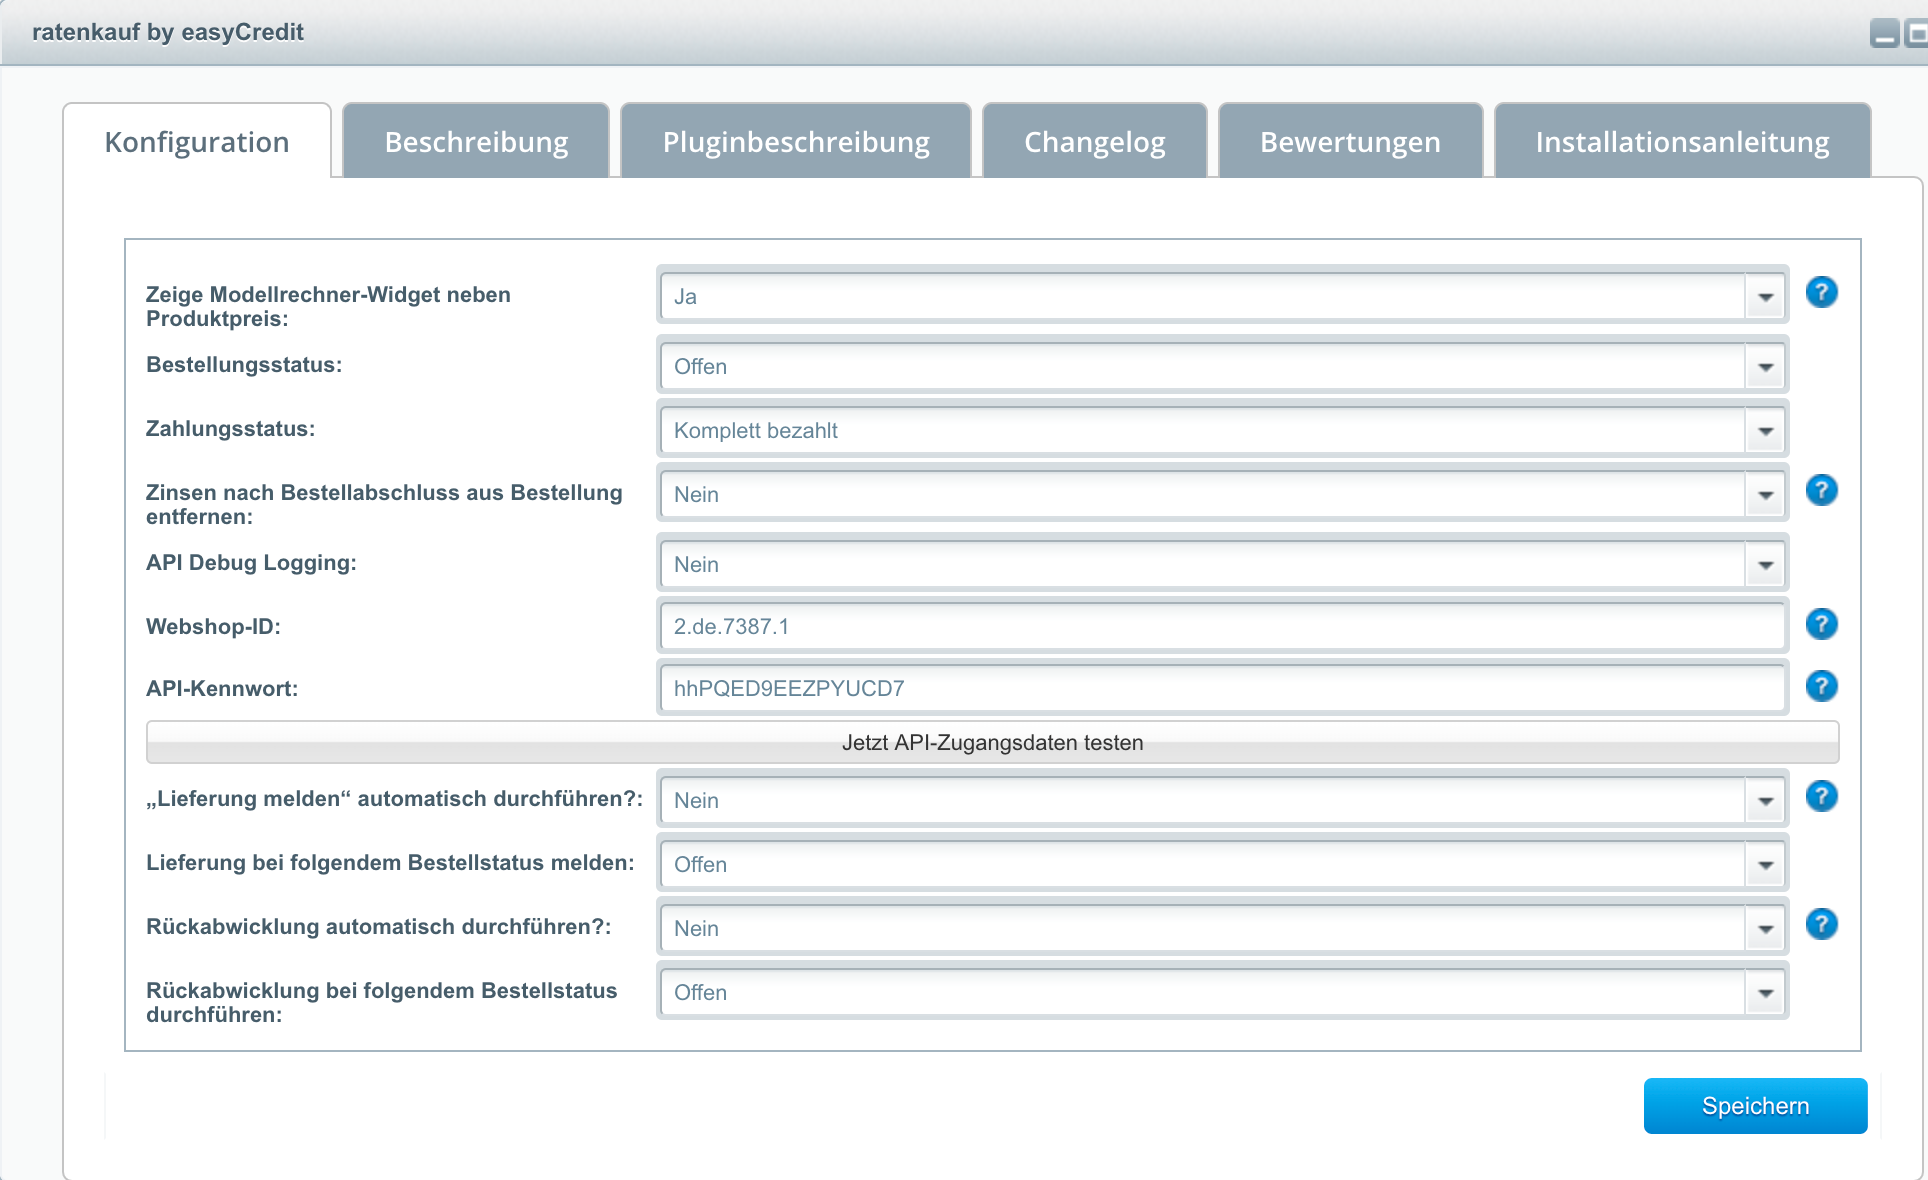
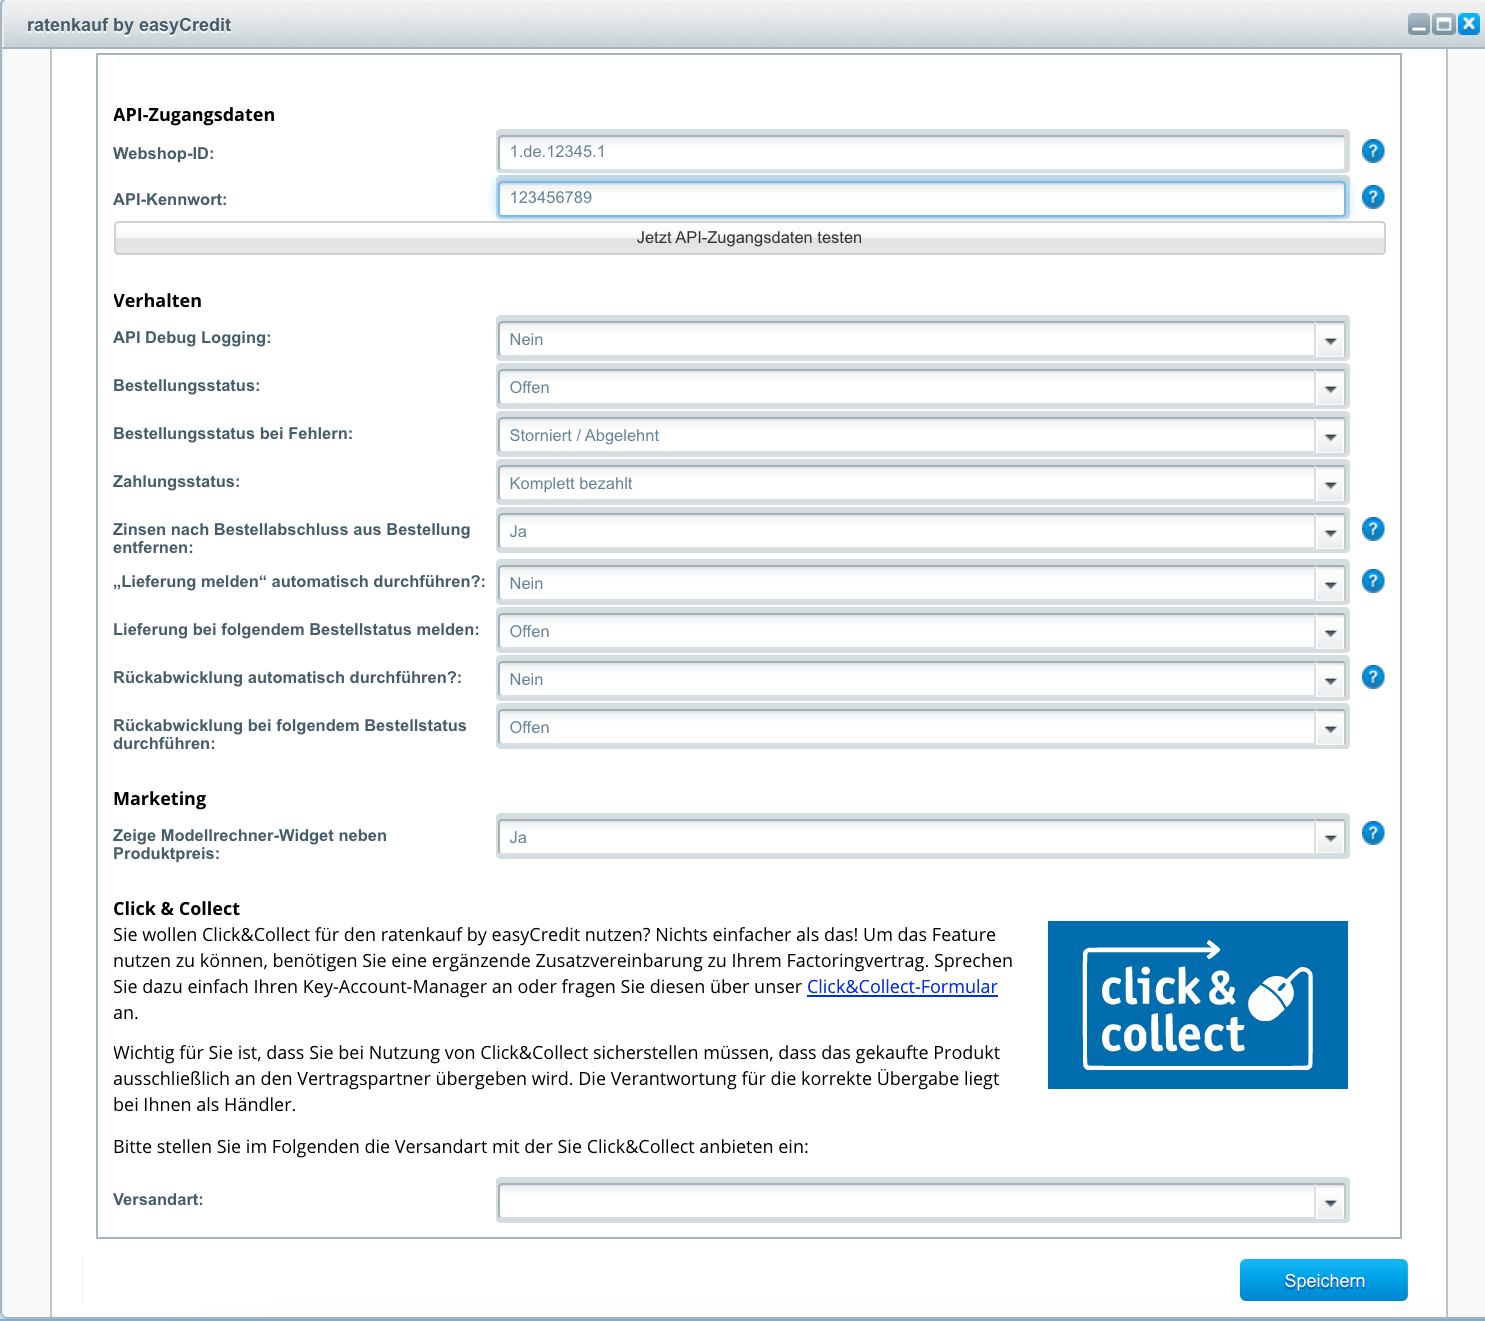
set interest as always 'shippingfree'

diff --git a/src/Frontend/NetzkollektivEasyCredit/Bootstrap.php b/src/Frontend/NetzkollektivEasyCredit/Bootstrap.php
@@ -24,7 +24,7 @@ class Shopware_Plugins_Frontend_NetzkollektivEasyCredit_Bootstrap
 
     public function getVersion()
     {
-        return '1.8.5';
+        return '1.8.6';
     }
 
     public function getInfo()
@@ -72,6 +72,7 @@ class Shopware_Plugins_Frontend_NetzkollektivEasyCredit_Bootstrap
     public function update($version)
     {
         $this->_createPaymentConfigForm();
+        $this->_createMenuItem();
 
         return array(
             'success' => true,
@@ -250,7 +251,9 @@ class Shopware_Plugins_Frontend_NetzkollektivEasyCredit_Bootstrap
 
     protected function _createMenuItem()
     {
+        Shopware()->Db()->delete('s_core_menu',['controller = ?' => 'EasycreditMerchant']);
         $parent = $this->Menu()->findOneBy(array('label' => 'Zahlungen'));
+
         $this->createMenuItem(
             array(
                 'label' => 'ratenkauf by easyCredit',
@@ -581,6 +584,7 @@ class Shopware_Plugins_Frontend_NetzkollektivEasyCredit_Bootstrap
                 'tax_rate' => 0,
                 'datum' => new Zend_Date(),
                 'modus' => 4,
+                'shippingfree' => 1,
                 'currencyFactor' => 1
             )
         );

diff --git a/docs/source/configuration.rst b/docs/source/configuration.rst
@@ -20,32 +20,11 @@ In dieser Zeile klicken Sie das Stifte Icon, um die Plugin Konfiguration zu öff
 Plugin konfigurieren
 --------------------
 
-Die Konfigurationsmöglichkeiten sind im Folgenden gezeigt und in der Tabelle im einzelnen beschrieben. Als Mindestkonfiguration geben Sie hier Ihre Webshop-Id und Ihr API-Passwort an.
-Sollten Sie Einstellungen vorgenommen habem, so speichern Sie die Einstellungen mit einem Klick auf **Speichern**.
+Die Konfigurationsmöglichkeiten sind im Folgenden gezeigt. Als Mindestkonfiguration geben Sie hier Ihre Webshop-Id und Ihr API-Passwort an.
 
 .. image:: ./_static/config-dialog.png
 
-.. tabularcolumns:: |p{85pt}|J|
-
-+-----------------------------------------------+---------------------------------------------------------------------------------------------------------------------------------------------------------------------------------------------------------------------------------------------------------------------------------+
-| Option                                        | Erklärung                                                                                                                                                                                                                                                                       |
-+-----------------------------------------------+---------------------------------------------------------------------------------------------------------------------------------------------------------------------------------------------------------------------------------------------------------------------------------+
-| Zeige Modellrechner-Widget neben Produktpreis | Aktivieren Sie diese Option wenn Sie auf Produkt-Detail-Seiten ein monatliches Raten Angebot anzeigen möchten. Bitte beachten Sie das ein monatlicher Ratenpreis nur angezeigt wird wenn der Preis des Produkts sich in der festgelegten Preisspanne für Ratenkäufe befindet.   |
-+-----------------------------------------------+---------------------------------------------------------------------------------------------------------------------------------------------------------------------------------------------------------------------------------------------------------------------------------+
-| Bestellungsstatus                             | Ermöglicht es Ihnen den Status festzulegen den Bestellungen die mit **ratenkauf by easyCredit** bezahlt wurden, nach dem Eingang im System aufweisen.                                                                                                                           |
-+-----------------------------------------------+---------------------------------------------------------------------------------------------------------------------------------------------------------------------------------------------------------------------------------------------------------------------------------+
-| Zahlungsstatus                                | Ermöglicht es Ihnen den Zahlungsstatus festzulegen den Bestallungen die mit **ratenkauf by easyCredit** bezahlt wurden, nach dem Eingang im System aufweisen.                                                                                                                   |
-+-----------------------------------------------+---------------------------------------------------------------------------------------------------------------------------------------------------------------------------------------------------------------------------------------------------------------------------------+
-| Debug Logging                                 | Erlaubt Ihnen festzulegen ob der Inhalt aller easyCredit API-Zugriffe werden soll. Fehlermitteillungen werden immer gespeichert.                                                                                                                                                |
-+-----------------------------------------------+---------------------------------------------------------------------------------------------------------------------------------------------------------------------------------------------------------------------------------------------------------------------------------+
-| Webshop-Id                                    | Der API-Key wird Ihnen von der Teambank AG zur Verfügung gestellt.                                                                                                                                                                                                              |
-+-----------------------------------------------+---------------------------------------------------------------------------------------------------------------------------------------------------------------------------------------------------------------------------------------------------------------------------------+
-| API-Passwort                                  | Der nicht öffentliche API Token wird Ihnen von der Teambank AG zur Verfügung gestellt und sollte nicht mit Dritten geteilt werden.                                                                                                                                              |
-+-----------------------------------------------+---------------------------------------------------------------------------------------------------------------------------------------------------------------------------------------------------------------------------------------------------------------------------------+
-| easyCredit Zugangsdaten überprüfen            | Ein Klick auf diesen Button überprüft die Kombination von API-Key und -Token auf Gültigkeit. Bitte vergessen Sie nicht nach einem erfolgreichen Test noch auf Speichern zu klicken.                                                                                             |
-+-----------------------------------------------+---------------------------------------------------------------------------------------------------------------------------------------------------------------------------------------------------------------------------------------------------------------------------------+
-
-.. note:: Nach einem erfgolreichen Test der API-Zugangsdaten, vergessen Sie bitte nicht auf **Speichern** zu klicken.
+.. note:: Nach einem erfolgreichen Test der API-Zugangsdaten, vergessen Sie bitte nicht auf **Speichern** zu klicken.
 
 Zahlungsart Einstellungen
 -------------------------

diff --git a/docs/source/changelog.rst b/docs/source/changelog.rst
@@ -1,6 +1,23 @@
 Changelog
 =========
 
+v1.8.6
+------
+
+* die Zinsen werden nun statisch als "versandkostenfrei" markiert (behebt Probleme i.V.m. "Eigene Bedingung" & "Eigene Berechnung")
+
+v1.8.5
+------
+
+* Änderung zur Kompatibilität mit Shopware 5.7.7
+
+v1.8.4
+------
+
+* tritt beim Abschliessen der Bestellung ein Fehler in der Kommunikation auf, erhält die Bestellung den neuen Status "Bestellstatus bei Fehlern"
+* Änderungen zur Kompatibilität mit Shopware >= 5.7
+* der Ratenrechner wird nun so dargestellt, dass der Inhalt vollständig ohne Scrollen gezeigt wird
+
 v1.8.3
 -------
 
